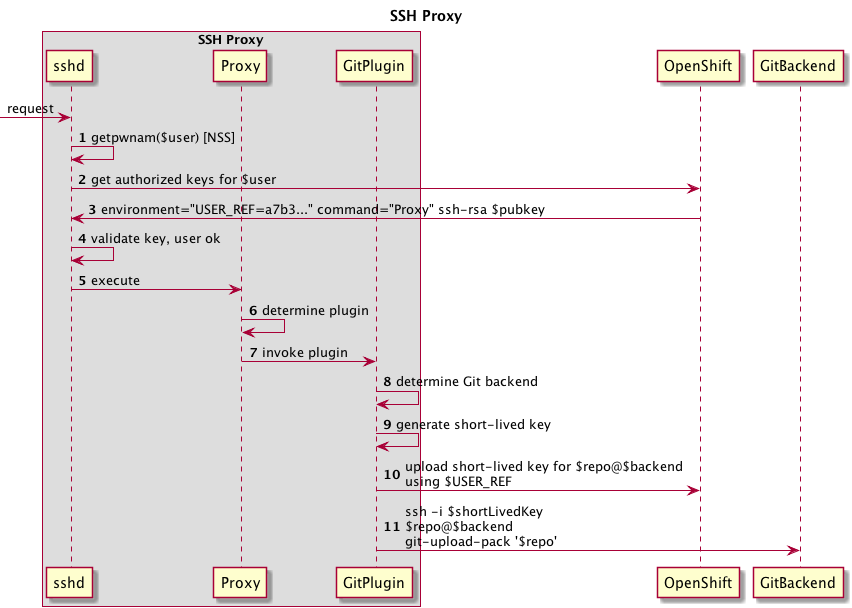
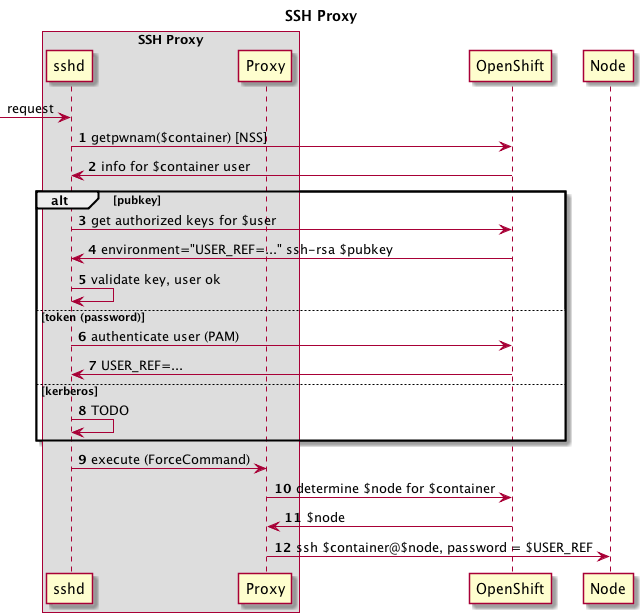
Update SSH Proxy PEP
Reduce complexity by removing short-lived keys.
Remove Git related content.

diff --git a/openshift-pep-014-ssh-proxy.md b/openshift-pep-014-ssh-proxy.md
@@ -11,7 +11,7 @@ Epic: [SCM](https://trello.com/c/L1Df40pk/68-source-control-management-scm)
 
 Abstract
 --------
-Create a proxy service for users to access cluster resources via SSH. The proxy provides an abstraction from the physical location of the requested resource; if the resource moves, its URI remains unchanged, so clients don't have to update their configurations. Examples of cluster resources the proxy may support: Git repositories, SSH access to containers.
+Create a proxy service for users to access cluster resources via SSH. The proxy provides an abstraction from the physical location of the requested resource; if the resource moves, its URI remains unchanged, so clients don't have to update their configurations. Examples of cluster resources the proxy may support: SSH access to containers, port forwarding.
 
 Motivation
 ----------
@@ -27,7 +27,11 @@ The SSH proxy is comprised of the following pieces:
 
 - sshd from OpenSSH
 - a custom AuthorizedKeysCommand
-- a custom executable to perform the proxying logic, with plugins to support different backend resources
+- a custom NSS module to delegate user lookups to OpenShift
+- a custom PAM module to
+	- delegate password authentication to OpenShift
+	- securely lookup and store a user identifier in the session's environment
+- a custom executable to perform the proxying logic
 
 The SSH proxy is stateless, in as much as multiple proxies can exist behind a load balancer and/or something like round-robin DNS. Doing so eliminates the proxy layer from being a single point of failure.
 
@@ -42,136 +46,67 @@ This is a simplified version of what actually happens, as we need to handle auth
 
 --
 
-### A deeper dive
-Let's look at what would happen for a Git clone request. First, the client would run a command such as
+### Client request
+Let's look at what would happen when SSHing to a container. First, the client would run a command such as
 
 ```
-git clone $user@proxy.openshift.com:$repo
+ssh $container@ssh.openshift.com
 ```
 
-where $user is the login for that particular person and $repo specifies the Git repository in question.
+where $container is the ID of the desired container.
 
 ![client request](images/pep-014-client.png)
+
+### Proxy actions
 
 `sshd` running in the proxy receives the request and performs the following sequence of steps relevant to OpenShift:
 
 ![proxy](images/pep-014-proxy.png)
 
-#### Step 1: lookup user via NSS
-`sshd` looks up information about the user via the `getpwnam` system call. This uses NSS to retrieve the information based on the configuration in `/etc/nsswitch.conf`. The implication of this call is that the user exist in whatever data source NSS uses for the `passwd` database. More on that later...
+#### Steps 1 & 2: lookup $container via NSS
+`sshd` looks up information about the $container (user) via the `getpwnam` system call. This uses NSS to retrieve the information based on the configuration in `/etc/nsswitch.conf`. For the SSH proxy, this file must be configured to use a custom NSS module that asks OpenShift for this user information.
 
-#### Steps 2 & 3: retrieve user's authorized keys
+#### Steps 3 - 8: authentication
+##### Public key authentication
+`sshd` uses a custom `AuthorizedKeysCommand` to ask OpenShift for a list of public keys allowed to access $container. This command runs as `AuthorizedKeysCommandUser`, which must be an isolated user that has a private means of authenticating with OpenShift (e.g. a client certificate or token). `sshd` performs the key exchange with the client and allows the client to proceed if the client's key is in the list of authorized keys retrieved from OpenShift.
 
-The proxy configures `sshd` to use a custom `AuthorizedKeysCommand` to look up public keys for $user. This command runs as the user specified by `AuthorizedKeysCommandUser` - this user should only be used to perform this action. The custom `AuthorizedKeysCommand` makes a secure request to OpenShift to retrieve the public keys. This command is run as an isolated user to ensure only this user is allowed to query OpenShift for the public keys for which ever original user is requesting access. The `AuthorizedKeysCommandUser` has the appropriate permissions to ask OpenShift for public keys for all users (via a private SSL client certificate, a private token, or any other private means).
+OpenShift also returns a "user reference token" environment variable that specifies the actual user associated with the public key. This variable is used later on as the password when the proxy SSHes to the container's node.
 
-OpenShift returns a list of the public keys for the user in question, along with
+##### Token (password) authentication
+The client presents a token as a password to `sshd`. `sshd` delegates password authentication to PAM. PAM is configured to delegate authentication to OpenShift. If authentication succeeds, OpenShift returns the "user reference token" and the PAM module sets it as an environment variable for the session.
 
-- A session environment variable that uniquely identifies the user. This environment variable is generated automatically and stored in OpenShift and must never be shared.
-- The command to be executed (the custom executable with the proxy logic). This command replaces whatever command the user originally requested; the user's command is available in `$SSH_ORIGINAL_COMMAND`.
+##### Kerberos authentication
+**TODO**
 
-#### Step 4: validate user's key
-Using the public keys retrieved above, `sshd` determines if the user is authorized or not.
+#### Step 9: execute proxy command
+After the user has successfully logged in, `sshd` executes the `ForceCommand` specified in `sshd_config`, a custom executable that provides the proxying logic.
 
-#### Step 5: execute proxy command
-After the user has successfully logged in, `sshd` executes the command specified by the authorized key above, a custom executable that provides the proxying logic.
+#### Steps 10 & 11: determine container's node
+The proxy asks OpenShift on which node the container resides.
 
-#### Steps 6 & 7: determine and execute backend plugin
-The proxy examines `$SSH_ORIGINAL_COMMAND` to determine which backend plugin should handle the remainder of the session. In this example, the command is `git-upload-pack`, which is handled by the Git backend plugin.
-
-Other backend plugins will perform different logic from this point forward. The steps below illustrate what the Git plugin workflow.
-
-#### Step 8: determine backend resource
-The Git plugin parses `$SSH_ORIGINAL_COMMAND` to determine which repo is being requested. The plugin then asks OpenShift for the URL of the backend pod where the repo lives.
-
-#### Step 9: generate short-lived key
-A user must only be allowed to access backend resources for which he/she has authorization. The user uses something only he/she knows (in this case, a private key) to authenticate to `sshd` in the proxy server, but once that happens, that piece of private data is not available in the proxy server itself (since the private key should only exist on the user's computer).
-
-At this point, the SSH proxy needs to act as the user's agent to access a backend resource. This process must be as secure as possible, to eliminate any opportunity for an attacker to impersonate another user to gain access to resources the attacker otherwise would not be allowed to see (which could only potentially happen if they're able to somehow break out of the custom proxy executable process).
-
-To mitigate this, the proxy creates a new SSH key pair for use solely with the current session.
-
-#### Step 10: upload short-lived key to OpenShift
-The plugin attempts to upload the short-lived public key to OpenShift using the `$USER_REF` environment variable that was set as part of the authorized keys lookup above. This short-lived key grants the SSH proxy access to a specific backend resource for a fixed amount of time. After the key's time-to-live has expired, OpenShift removes it automatically.
-
-OpenShift checks to see if the user is allowed to access the specified Git repository. If so, OpenShift stores the key. If not, OpenShift returns an error to the plugin, and the plugin halts execution and returns the error to the user.
-
-As mentioned before, `$USER_REF` is an auto-generated, random string that uniquely identifies a user. It should never be seen by anyone and only be used by the proxy executable. If a user did manage to see his/her `$USER_REF`, the only thing he/she could do with this knowledge would be to upload short-lived keys for resources the user is already authorized to access. If an attacker managed to see another user's `$USER_REF`, that would be a problem, as it would allow the attacker to gain access to the other user's backend resources. That is why it is critical that one user's `$USER_REF` value is not visible to other user's in the SSH proxy server. This isolation is achieved using SELinux and unique MCS labels per user; see the section on MCS labels below for more information.
-
-#### Step 11: forward request to backend resource
-The plugin next forwards the original request to the backend pod that has the repo.
+#### Step 12: forward request to node
+The proxy forwards the original SSH request to the node, using $USER_REF as the password token for authentication.
 
 --
 
-### Backend flow - Git
+### Node actions
 ![](images/pep-014-backend.png)
 
-#### Step 1: lookup user ($repo) via NSS
-`sshd` looks up information about the user (in this case, the $repo) via the `getpwnam` system call. Each repo will have its own entry in `/etc/passwd`, managed by a helper process (see below for more information).
+#### Steps 1 & 2: lookup user ($container) via NSS
+`sshd` looks up information about the $container (user) via the `getpwnam` system call. This uses NSS to retrieve the information based on the configuration in `/etc/nsswitch.conf`. For the node, this file must be configured to use a custom NSS module that asks OpenShift for this user information.
 
-#### Steps 2 & 3: get authorized keys for $repo
-`sshd` in the Git backend is configured to use a custom `AuthorizedKeysCommand` to look up public keys for $repo. This command runs as the user specified by `AuthorizedKeysCommandUser` - this user should only be used to perform this action. The custom `AuthorizedKeysCommand` makes a secure request to OpenShift to retrieve the public keys. The reason this command must run as a separate user is so that only this user is allowed to query OpenShift for the public keys for $repo. The `AuthorizedKeysCommandUser` has the appropriate permissions to ask OpenShift for public keys for all repos (via a private SSL client certificate, a private token, or any other private means). This ensures the proxy, acting as a real user's agent, is only authorized to access the repositories the real user is allowed to see.
+#### Step 3: authenticate
+The SSH proxy presents the user reference token as a password to `sshd`. `sshd` delegates password authentication to PAM. PAM is configured to delegate authentication to OpenShift.
 
-OpenShift returns a list of the public keys for the repository in question.
-
-#### Step 4: validate short-lived key
-Using the public keys retrieved above, `sshd` determines if the proxy is authorized or not.
-
-#### Step 5: execute shell
-`sshd` executes the repository user's shell, `git-shell`
-
-#### Steps 6 & 7: handle Git request
-`git-shell` handles the Git request and returns the data back through the proxy to the client.
+#### Steps 4 & 5: execute original command
+`sshd` executes a custom shell that `nsenter`s the target container's namespaces and executes $SSH_ORIGINAL_COMMAND.
 
 --
 
-### passwd entries / getpwnam() / nsswitch
-sshd requires that all users exist in the passwd database; more specifically, it must be possible to retrieve information for a user via the `getpwnam` method call. This method retrieves data from the sources specified in the `/etc/nsswitch.conf` file; the most common sources are probably:
-
-- the `/etc/passwd` file
-- LDAP
-
-While the `/etc/passwd` file has less setup overhead than something like LDAP, especially for small deployments, this file would need to be updated any time a user is added or removed to OpenShift's user database.
-
 ### MCS label assignment
-Distinct users in a multi-tenant environment (SSH proxy container, Git backend container, etc.) should not be allowed to view each others' files. Giving each Linux user's its own SELinux context and setting the exeuction context of a user's processes provides this inter-user isolation.
+Distinct users in a multi-tenant environment (SSH proxy container, Git backend container, etc.) should not be allowed to view each others' files. Giving each Linux user its own SELinux context and setting the execution context of a user's processes provides this inter-user isolation.
 
 OpenShift 2 uses a custom PAM module, [pam_openshift](https://github.com/openshift/origin-server/tree/master/pam_openshift), to set the SELinux context when a user interacts with a gear via SSH. OpenShift 3 could continue to use this module, or it might be possible to use `pam_selinux` and the custom dynamic environment variable PAM module described below to set `SELINUX_LEVEL_REQUESTED` above `pam_selinux` in the PAM stack.
 
-
-### Changes to OpenShift API
-- add GitRepository type/registry/rest
-- need to be able to store/retrieve public keys for users
-- need to be able to store/retrieve short-lived keys, scoped to a specific resource
-
 ### SSSD integration?
 Consider using SSSD in the SSH proxy container and the various backend containers (Git, etc.) to cache public keys.
-
-Question: we don't really want to cache the short-lived keys, do we?
-
-### Kerberos for authentication
-TODO
-
-### Token ("password") for authentication
-If a user wants to provide a token for password authentication, there needs to be a way to set the `$USER_REF` environment variable. The only secure option that comes to mind is to write a new PAM module that queries OpenShift for the `$USER_REF` based on the user's login and sets the environment variable using a call to `pam_putenv`.
-
-This method could be used for both public key and password authentication for consistency.
-
-### Git repository provisioning & management
-A custom controller running in a Git backend pod watches the apiserver for new GitRepositories and creates the appropriate directories and files for the new repository.
-
-If using `/etc/passwd`, the controller also adds an entry for the repository user to that file.
-
-The controller could either run in the background in the same Git backend container that is running `sshd`, or it could run in a separate container that is part of the same pod, as long as the appropriate files and directories are shared between the containers (`/etc/passwd` and the base directory for all the git repositories, e.g. `/var/lib/git`).
-
-### Recovery process
-If a Git backend pod is lost unexpectedly, there must be a process to create a new pod to assume the duties of the previous one. The ideal way to handle this is to define a ReplicationController for the pod, and let OpenShift (Kubernetes) ensure the replica count is maintained at 1. If the pod dies, a replacement is created automatically as part of the replication controller functionality.
-
-If the repository users are stored in `/etc/passwd`, this file must be bootstrapped appropriately.
-
-The repositories themselves must be attached to the new Git backend container. This presumably will be handled as part of the replication controller replacement process. The repositories should be stored on a volume that can be detached from the lost pod and attached to the new one.
-
-### Non-human access to project resources
-TODO
-- Can I from the UI add any ssh public key or token as having access to my git repo?
-- How to map the key back to a user?
-- Desire is to be able to give a non-human access to a project's resources
